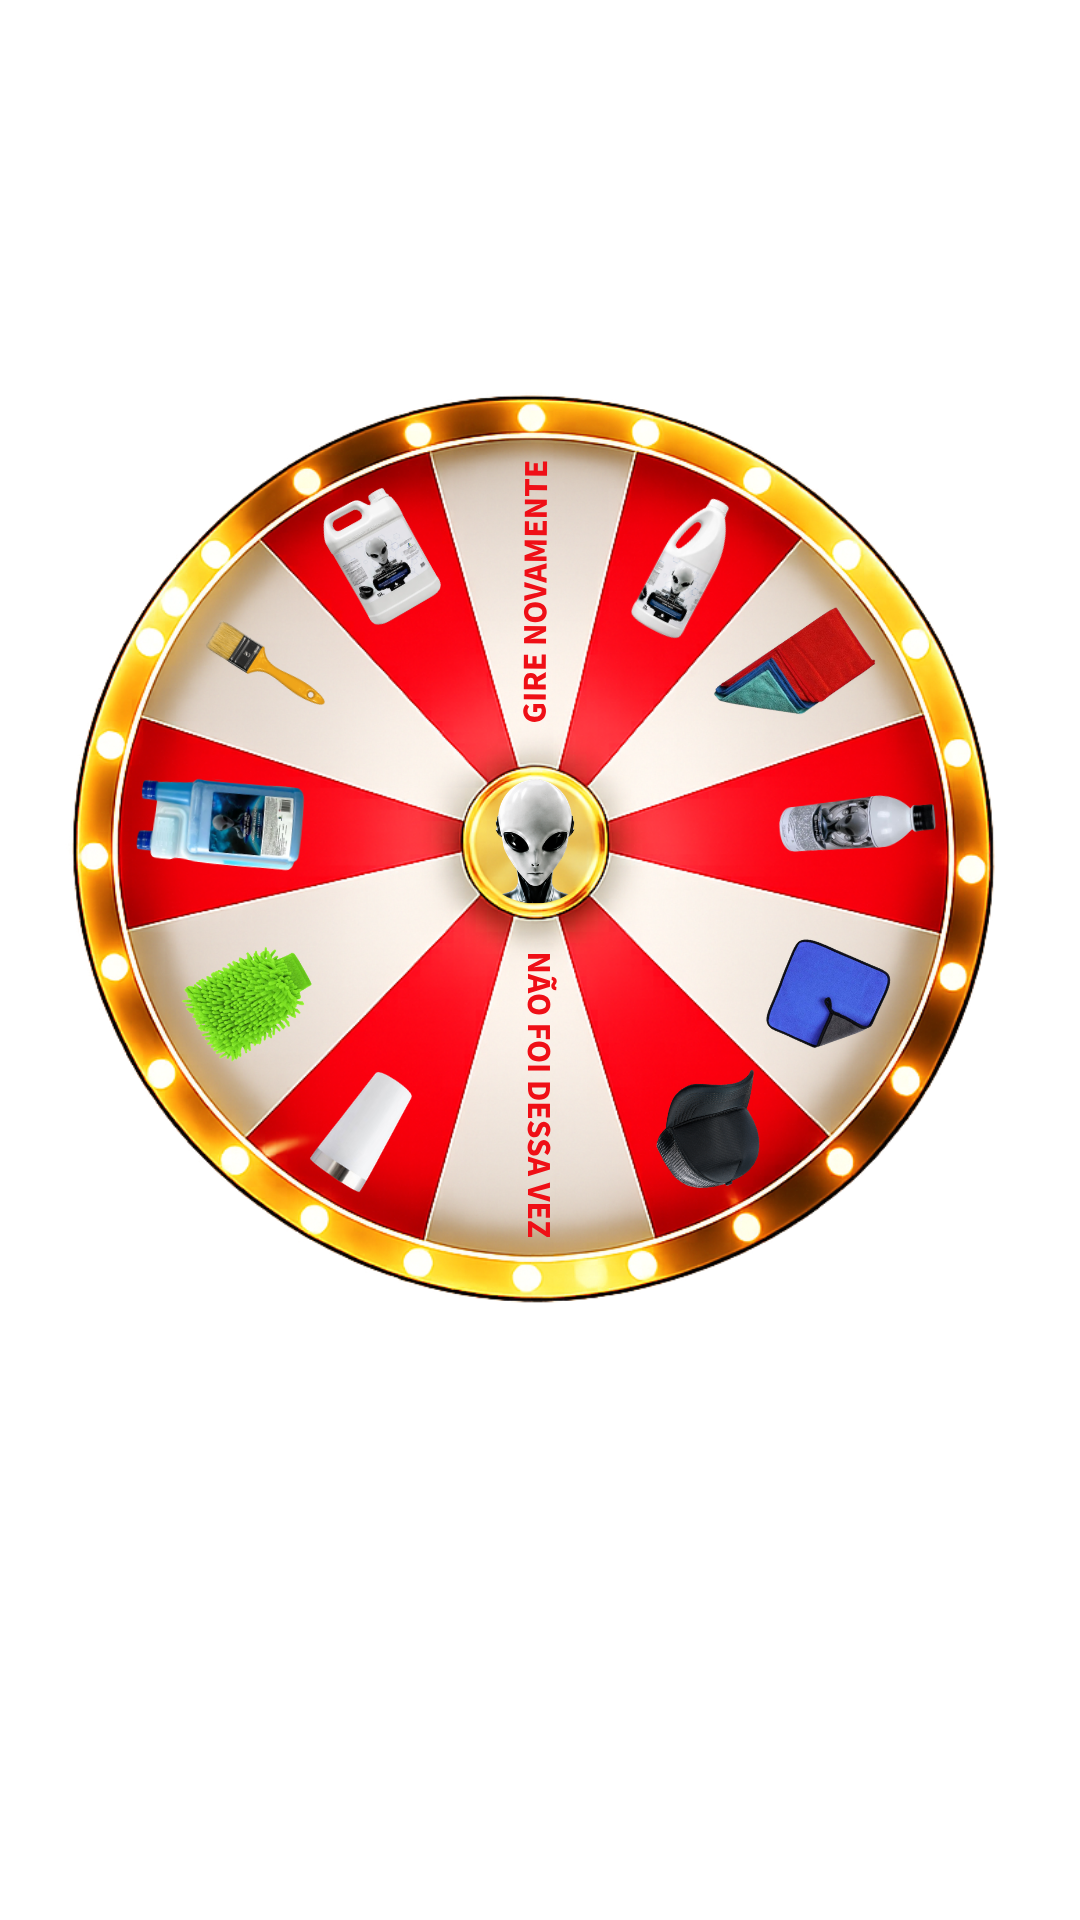
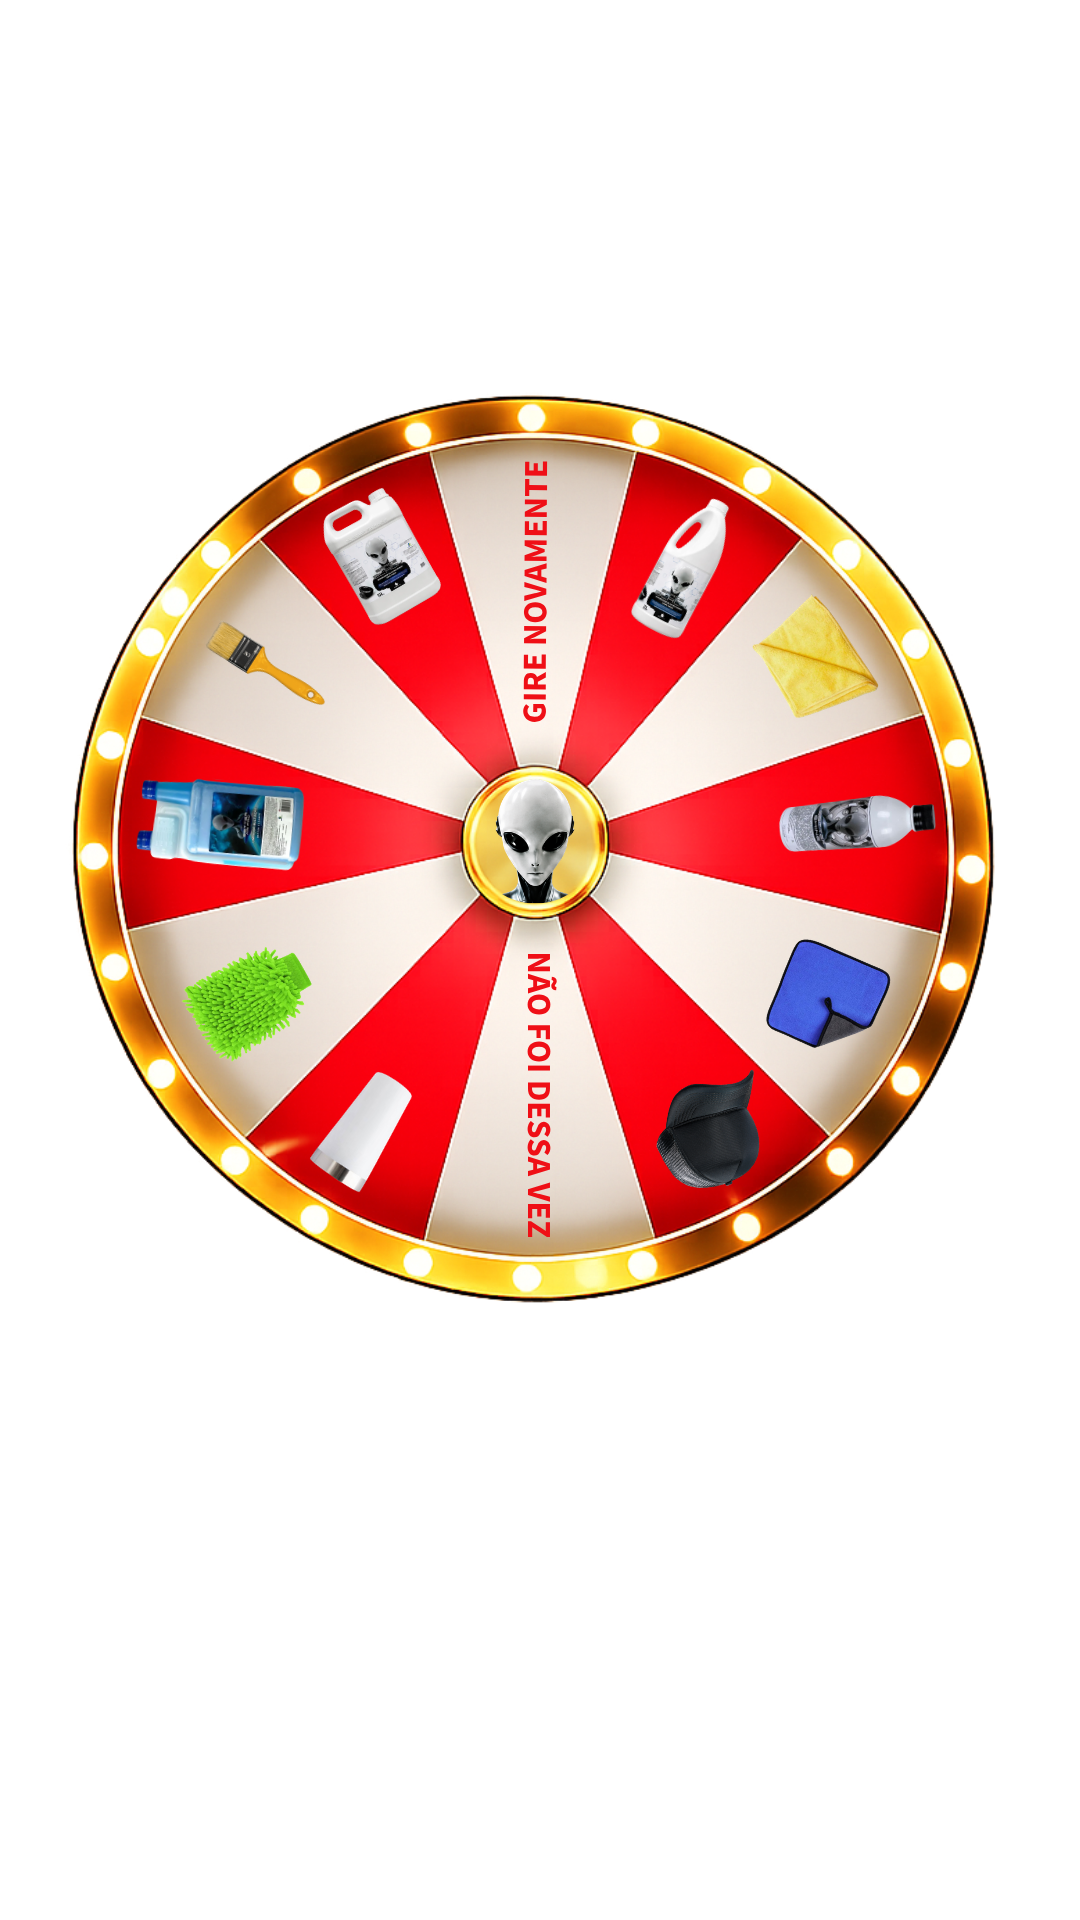
Atualiza arte da roleta (Pano microfibra amarela)

Changed region(s): [[0.6722, 0.3125, 0.825, 0.375]]

diff --git a/sw.js b/sw.js
@@ -1,5 +1,5 @@
 /* Service Worker - cache total para funcionar 100% offline */
-const CACHE = "roleta-v18";
+const CACHE = "roleta-v19";
 const ASSETS = [
   "./",
   "./index.html",